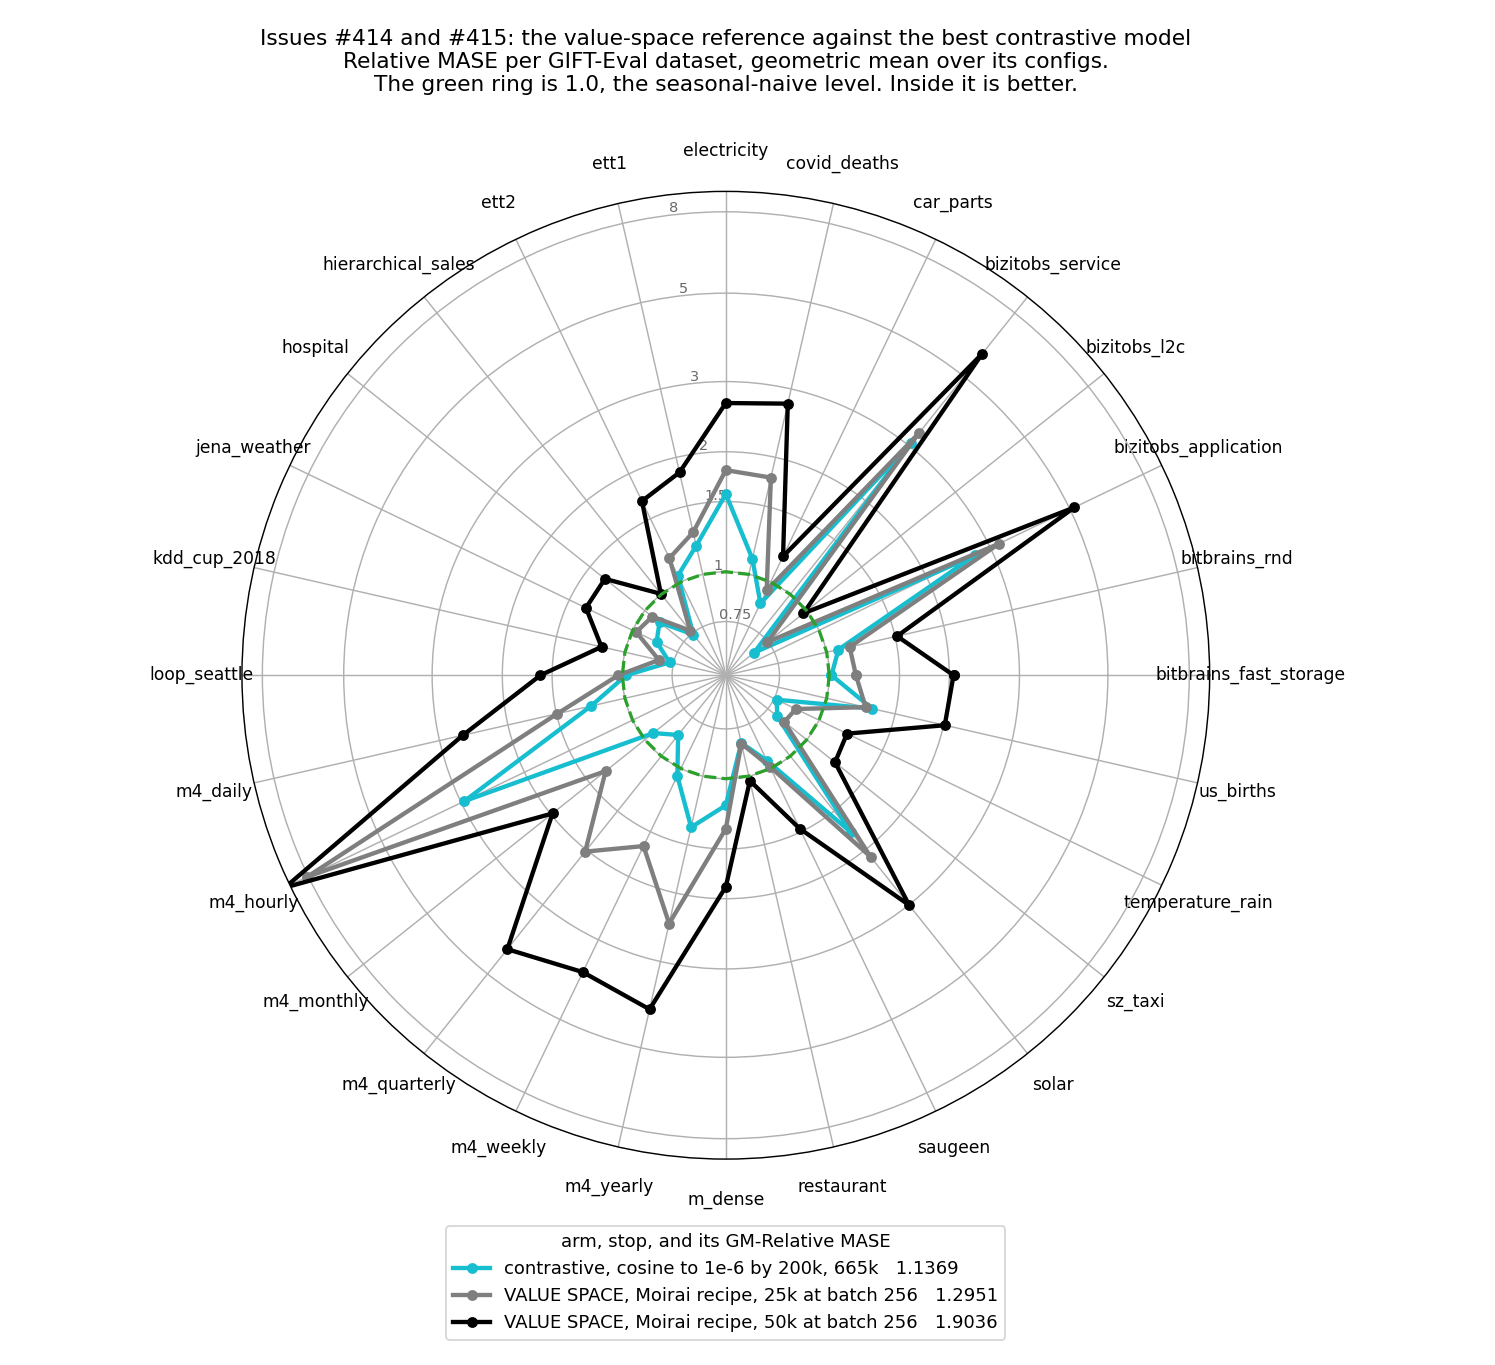
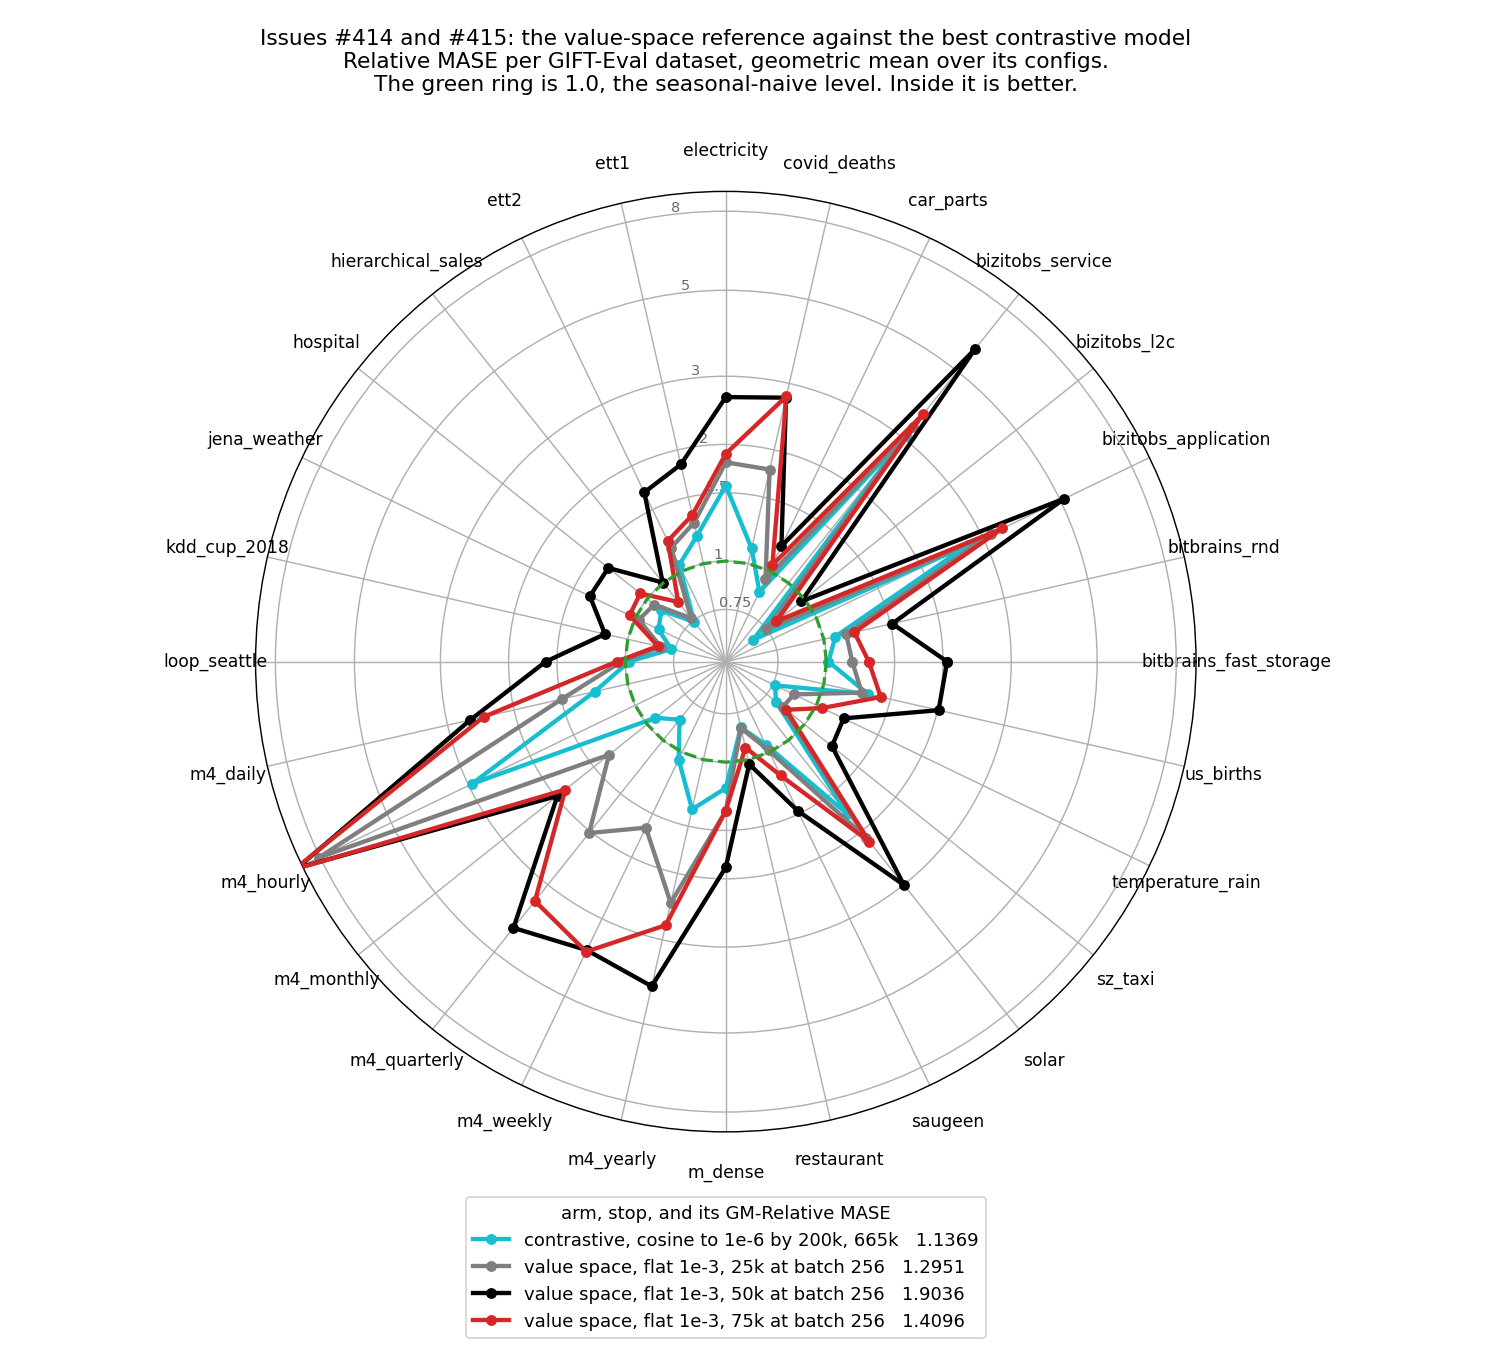
exp(#415): the flat-rate value run scores 1.4096 at 75,000 steps
The run stopped at 92,600 steps, and a run with the Moirai schedule
replaces it. The figures call the run what it trained: a flat 1e-3.

diff --git a/reports/2026-09-06_moirai_small_size/scripts/plot_gm_rates.py b/reports/2026-09-06_moirai_small_size/scripts/plot_gm_rates.py
@@ -22,7 +22,7 @@ SERIES = [
     (P + "_lr100x",   "5.6e-6",                        "#ff9f40", 4.0, "^", "-"),
     (P + "_cos665k",  "cosine 6e-5 to 1e-6 over 665k", "#9467bd", 4.0, "D", "-"),
     (P + "_cos200k",  "cosine 5.6e-5 to 1e-6 by 200k, then 1e-6", "#17becf", 4.0, "v", "-"),
-    ("cf415_value",   "value space, Moirai recipe (#415)", "#000000", 3.2, "*", "--"),
+    ("cf415_value",   "value space, flat 1e-3 (#415)", "#000000", 3.2, "*", "--"),
 ]
 # The value-space run trains at batch 256: one of its steps holds the data of
 # four batch-64 steps.
@@ -30,7 +30,7 @@ XSCALE = {"cf415_value": 4}
 # Where the last score of a line prints, so two lines that end together part.
 END_LABEL_OFFSET = {P + "_lr100x": (9, 4), P + "_cos200k": (9, -12)}
 BEST, BAND, PROJECT_BEST = 1.1369, 0.008, 1.0651
-YMIN, YMAX = 1.05, 1.36
+YMIN, YMAX = 1.05, 1.43
 
 
 def load_points():
@@ -49,9 +49,11 @@ def draw_series(ax, arm, label, colour, width, marker, style, points):
             label=label, zorder=3)
     for xi, yi in zip(x, y):
         if yi > YMAX:
+            # The label sits left of the point, clear of the title.
             ax.annotate(f"{yi:.4f}, off the chart", (xi, YMAX - 0.004),
-                        xytext=(8, -14), textcoords="offset points",
-                        fontsize=9, color=colour, weight="bold")
+                        xytext=(xi / 1.9, YMAX - 0.012), va="center",
+                        fontsize=9, color=colour, weight="bold",
+                        arrowprops=dict(arrowstyle="->", color=colour, lw=1))
     if y[-1] <= YMAX:
         ax.annotate(f"{y[-1]:.4f}", (x[-1], shown[-1]), textcoords="offset points",
                     xytext=END_LABEL_OFFSET.get(arm, (9, -3)), fontsize=9,

diff --git a/reports/2026-09-06_moirai_small_size/scripts/plot_radar_value.py b/reports/2026-09-06_moirai_small_size/scripts/plot_radar_value.py
@@ -18,8 +18,9 @@ def read(path):
 
 sn = read(SN)
 ARMS = [("cyan665",  "contrastive, cosine to 1e-6 by 200k, 665k   1.1369", "#17becf"),
-        ("value25k", "VALUE SPACE, Moirai recipe, 25k at batch 256   1.2951", "#7f7f7f"),
-        ("value50k", "VALUE SPACE, Moirai recipe, 50k at batch 256   1.9036", "#000000")]
+        ("value25k", "value space, flat 1e-3, 25k at batch 256   1.2951", "#7f7f7f"),
+        ("value50k", "value space, flat 1e-3, 50k at batch 256   1.9036", "#000000"),
+        ("value75k", "value space, flat 1e-3, 75k at batch 256   1.4096", "#d62728")]
 
 per_ds = {}
 for name, _, _ in ARMS:

diff --git a/reports/2026-09-06_moirai_small_size/moirai_small_size.md b/reports/2026-09-06_moirai_small_size/moirai_small_size.md
@@ -6,7 +6,8 @@ project best. The best 11.4M score is 1.1369 GM-Relative MASE, after one pass
 over the data. Its rate starts at 5.6e-5 and falls by cosine to 1e-6 at step
 200,000. Each constant rate gives a lowest score and then a climb, and the
 rate sets where that turn falls. The same body, trained in value space with the
-Moirai recipe (#415), scores worse than the contrastive model at equal data.
+Moirai optimiser at a flat rate (#415), scores worse than the contrastive model
+at equal data.
 
 ## Definitions
 
@@ -60,21 +61,25 @@ and m4_yearly. At 5.6e-6 each one ends below its 40,000-step value. At 5.6e-5,
 m4_hourly, solar and electricity climb after 400,000 steps. All six stay above
 1.0.
 
-## The value-space Moirai recipe scores worse than the contrastive model
+## The value-space run at a flat 1e-3 scores worse than the contrastive model
 
 ![relative MASE per GIFT-Eval dataset, the value-space reference against the best contrastive run](plots/gm_mase_radar_value.png)
 
 The reference of #415 trains the same body on the quantiles of the actual
 values, and rolls the forecast out in value space. It has no teacher, no EMA,
-no `L_rep` and no `L_align`. It uses the Moirai recipe as this repository runs
-it: rate 1e-3 flat, batch 256, weight decay 0.1, betas (0.9, 0.98), no warmup
-and no gradient clip.
+no `L_rep` and no `L_align`. This first run used the Moirai optimiser settings
+at a flat rate: 1e-3, batch 256, weight decay 0.1, betas (0.9, 0.98), no
+warmup and no gradient clip.
 
-At 6.4M windows (25,000 steps at batch 256) it scores 1.2951. The contrastive
-run scores 1.1526 at the same data, and its 665,000-step score is better on 27
-of the 28 datasets. The loss of the reference spiked between 25,000 and 50,000
-steps, and its 50,000-step score, 1.9036, is worse on all 28. The reference
-trains on to one pass, 166,000 steps at batch 256.
+At 6.4M windows (25,000 steps at batch 256) the reference scores 1.2951, and
+the contrastive run scores 1.1526 at the same data. Against the contrastive
+run at 665,000 steps, the reference is worse on 27 of the 28 datasets at
+25,000 steps, and on all 28 at 50,000 and 75,000 steps. Its loss spiked
+between 25,000 and 50,000 steps (1.9036 at 50,000), and again at 73,000,
+77,000 and 79,000 to 84,000 steps (1.4096 at 75,000). The owner stopped the
+run at 92,600 steps. A second run with the Moirai schedule replaces it (#415):
+a 10,000-step warmup, a cosine to 0 at 166,000 steps and a gradient clip of
+1.0.
 
 ## The tables
 
@@ -101,7 +106,7 @@ counts its steps at batch 256.
 | 5.6e-6 | 1.1435 | 1,000,000 | 1.1435 | 1,000,000 |
 | cosine 6e-5 to 1e-6 over 665,000 | 1.1646 | 100,000 | 1.2738 | 600,000 |
 | cosine 5.6e-5 to 1e-6 by 200,000, then 1e-6 | 1.1369 | 665,000 | 1.1386 | 1,200,000 |
-| value space, Moirai recipe | 1.2951 | 25,000 | 1.9036 | 50,000 |
+| value space, flat 1e-3 | 1.2951 | 25,000 | 1.4096 | 75,000 |
 
 `results/gm_trajectories.tsv` holds every scored stop of the card, one row per
 stop. `scripts/gm_trajectories.py` builds it from the score files.
@@ -127,16 +132,16 @@ Small to Moirai 2.0 Small. MASE is GM-Relative MASE on GIFT-Eval.
 The Moirai 1.0 column gives the uni2ts pretraining defaults. The paper gives
 no separate recipe for its 0.946 run.
 
-| | Moirai 1.0 Small, GIFT-Eval Pretrain | value-space reference (#415) | contrastive, cosine by 200,000 |
+| | Moirai 1.0 Small, GIFT-Eval Pretrain | value space, flat 1e-3 (#415) | contrastive, cosine by 200,000 |
 |---|---|---|---|
-| GM-Relative MASE | 0.946 | 1.2951, best so far | 1.1369 |
+| GM-Relative MASE | 0.946 | 1.2951, its best | 1.1369 |
 | parameters | 14M | 11.4M | 11.4M |
 | body | masked encoder, 6 layers | 3 encoder and 3 forecaster layers | the same |
 | patch | 8 to 128, set by the frequency | 16 | 16 |
 | objective | mixture negative log-likelihood | 9 quantiles of the values | contrastive, in latent space |
 | forecast | the whole horizon at once | rollout, 1 patch per step | latent rollout, then a 30,000-step head |
 | data | GIFT-Eval Pretrain, 230B points | `small_v1`, synthetic ARMA at 1/128, mixup | the same |
-| steps and batch | 100,000 at 256 | 166,000 at 256 | 665,000 at 64 |
+| steps and batch | 100,000 at 256 | 92,600 at 256, then stopped | 665,000 at 64 |
 | rate | 1e-3, 10,000-step warmup, then cosine | 1e-3 flat | 5.6e-5, cosine to 1e-6 by 200,000 |
 | gradient clip | 1.0 | none | none |
 | weight decay | 0.1, linear weights only | 0.1, all weights | 0.1, all weights |
@@ -167,7 +172,8 @@ BB_GPU=0 ARMS=k3_r100_09_lr56_fix09_dec10k_cos200k CF412_STOPS="$S" STOPS="$S" \
 # Score one stop again.
 BB_GPU=0 bash scripts/head_eval.sh k3_r100_09_lr56_fix09_dec10k_cos200k 665000
 
-# The value-space reference of #415 trains from PR #416 at commit c2f796d7.
+# The flat-rate value-space run of #415 trained from PR #416 at c2f796d7.
+# Its Moirai-schedule run trains from 9d0f3311, with the defaults of paths.sh.
 git worktree add /tmp/cf-415 c2f796d7
 (cd /tmp/cf-415/reports/2026-09-23_value_space_reference && \
   LR=1e-3 CF415_BATCH_SIZE=256 SAVE_EVERY=5000 \
